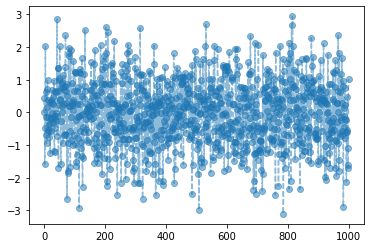
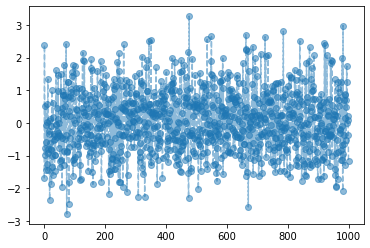
Built site for gh-pages

diff --git a/posts/2. 마코프체인/2023-03-30-5wk-1.html b/posts/2. 마코프체인/2023-03-30-5wk-1.html
@@ -9,7 +9,7 @@
 <meta name="author" content="최규빈">
 <meta name="dcterms.date" content="2023-03-30">
 
-<title>SP2023 - 5wk-1: 마코프체인 (1) – draft</title>
+<title>SP2023 - 5wk-1: 마코프체인 (1)</title>
 <style>
 code{white-space: pre-wrap;}
 span.smallcaps{font-variant: small-caps;}
@@ -166,7 +166,7 @@ code span.wa { color: #60a0b0; font-weight: bold; font-style: italic; } /* Warni
     </nav>
   <nav class="quarto-secondary-nav" data-bs-toggle="collapse" data-bs-target="#quarto-sidebar" aria-controls="quarto-sidebar" aria-expanded="false" aria-label="Toggle sidebar navigation" onclick="if (window.quartoToggleHeadroom) { window.quartoToggleHeadroom(); }">
     <div class="container-fluid d-flex justify-content-between">
-      <h1 class="quarto-secondary-nav-title">5wk-1: 마코프체인 (1) – draft</h1>
+      <h1 class="quarto-secondary-nav-title">5wk-1: 마코프체인 (1)</h1>
       <button type="button" class="quarto-btn-toggle btn" aria-label="Show secondary navigation">
         <i class="bi bi-chevron-right"></i>
       </button>
@@ -177,7 +177,7 @@ code span.wa { color: #60a0b0; font-weight: bold; font-style: italic; } /* Warni
 <header id="title-block-header" class="quarto-title-block default page-columns page-full">
   <div class="quarto-title-banner page-columns page-full">
     <div class="quarto-title column-body">
-      <h1 class="title d-none d-lg-block">5wk-1: 마코프체인 (1) – draft</h1>
+      <h1 class="title d-none d-lg-block">5wk-1: 마코프체인 (1)</h1>
                       </div>
   </div>
     
@@ -285,7 +285,7 @@ code span.wa { color: #60a0b0; font-weight: bold; font-style: italic; } /* Warni
       <ul id="quarto-sidebar-section-3" class="collapse list-unstyled sidebar-section depth2 show">  
           <li class="sidebar-item">
   <div class="sidebar-item-container"> 
-  <a href="../../posts/2. 마코프체인/2023-03-30-5wk-1.html" class="sidebar-item-text sidebar-link active">5wk-1: 마코프체인 (1) – draft</a>
+  <a href="../../posts/2. 마코프체인/2023-03-30-5wk-1.html" class="sidebar-item-text sidebar-link active">5wk-1: 마코프체인 (1)</a>
   </div>
 </li>
       </ul>
@@ -301,7 +301,8 @@ code span.wa { color: #60a0b0; font-weight: bold; font-style: italic; } /* Warni
     <h2 id="toc-title">On this page</h2>
    
   <ul>
-  <li><a href="#확률벡터" id="toc-확률벡터" class="nav-link active" data-scroll-target="#확률벡터">확률벡터</a></li>
+  <li><a href="#강의영상" id="toc-강의영상" class="nav-link active" data-scroll-target="#강의영상">강의영상</a></li>
+  <li><a href="#확률벡터" id="toc-확률벡터" class="nav-link" data-scroll-target="#확률벡터">확률벡터</a></li>
   <li><a href="#확률벡터의-평균-star" id="toc-확률벡터의-평균-star" class="nav-link" data-scroll-target="#확률벡터의-평균-star">확률벡터의 평균 (<span class="math inline">\(\star\)</span>)</a>
   <ul class="collapse">
   <li><a href="#확률변수의-평균" id="toc-확률변수의-평균" class="nav-link" data-scroll-target="#확률변수의-평균">확률변수의 평균</a></li>
@@ -324,6 +325,12 @@ code span.wa { color: #60a0b0; font-weight: bold; font-style: italic; } /* Warni
 
 
 
+<section id="강의영상" class="level1">
+<h1>강의영상</h1>
+<blockquote class="blockquote">
+<p>youtube: <a href="https://youtube.com/playlist?list=PLQqh36zP38-xlV_TS7zhmYyyYNKv8np4W" class="uri">https://youtube.com/playlist?list=PLQqh36zP38-xlV_TS7zhmYyyYNKv8np4W</a></p>
+</blockquote>
+</section>
 <section id="확률벡터" class="level1">
 <h1>확률벡터</h1>
 <p><code>-</code> 확률변수와 확률벡터</p>
@@ -696,8 +703,7 @@ code span.wa { color: #60a0b0; font-weight: bold; font-style: italic; } /* Warni
 </div>
 </div>
 <div class="cell" data-execution_count="16">
-<div class="sourceCode cell-code" id="cb18"><pre class="sourceCode numberSource python number-lines code-with-copy"><code class="sourceCode python"><span id="cb18-1"><a href="#cb18-1"></a><span class="co"># samples.mean(axis=0) # 각각 E(X1), E(X2), ... , E(X_{1000}) 을 근사한 것 </span></span>
-<span id="cb18-2"><a href="#cb18-2"></a>np.mean(samples[:,<span class="op">-</span><span class="dv">1</span>]) <span class="co"># E(X_{1000})을 근사한것</span></span></code><button title="Copy to Clipboard" class="code-copy-button"><i class="bi"></i></button></pre></div>
+<div class="sourceCode cell-code" id="cb18"><pre class="sourceCode numberSource python number-lines code-with-copy"><code class="sourceCode python"><span id="cb18-1"><a href="#cb18-1"></a>np.mean(samples[:,<span class="op">-</span><span class="dv">1</span>]) <span class="co"># E(X_{1000})을 근사한것</span></span></code><button title="Copy to Clipboard" class="code-copy-button"><i class="bi"></i></button></pre></div>
 <div class="cell-output cell-output-display" data-execution_count="16">
 <pre><code>0.7862120226702592</code></pre>
 </div>
@@ -817,18 +823,18 @@ code span.wa { color: #60a0b0; font-weight: bold; font-style: italic; } /* Warni
 </ul>
 <p>이때는 <span class="math inline">\(E(X_{1000})\)</span>을 <span class="math inline">\(\frac{1}{T}\sum_{t=1}^T X_t\)</span>와 같은 방식으로 근사할 수 있다.</p>
 <p><strong>시뮬1 – calculating time average of one-sample <span class="math inline">\((x_1,\dots,x_{1000})\)</span></strong></p>
-<div class="cell" data-execution_count="28">
+<div class="cell" data-execution_count="3">
 <div class="sourceCode cell-code" id="cb30"><pre class="sourceCode numberSource python number-lines code-with-copy"><code class="sourceCode python"><span id="cb30-1"><a href="#cb30-1"></a>one_sample <span class="op">=</span> np.random.binomial(<span class="dv">1</span>,<span class="fl">0.5</span>,<span class="dv">1000</span>)</span>
 <span id="cb30-2"><a href="#cb30-2"></a>np.mean(one_sample)</span></code><button title="Copy to Clipboard" class="code-copy-button"><i class="bi"></i></button></pre></div>
-<div class="cell-output cell-output-display" data-execution_count="28">
-<pre><code>0.5</code></pre>
+<div class="cell-output cell-output-display" data-execution_count="3">
+<pre><code>0.536</code></pre>
 </div>
 </div>
 <p><strong>시뮬2 – approximating ensemble average with 43052 samples</strong></p>
-<div class="cell" data-execution_count="29">
-<div class="sourceCode cell-code" id="cb32"><pre class="sourceCode numberSource python number-lines code-with-copy"><code class="sourceCode python"><span id="cb32-1"><a href="#cb32-1"></a>np.stack([np.random.binomial(<span class="dv">1</span>,<span class="fl">0.5</span>,<span class="dv">1000</span>) <span class="cf">for</span> i <span class="kw">in</span> <span class="bu">range</span>(<span class="dv">43052</span>)]).mean(axis<span class="op">=</span><span class="dv">0</span>)[<span class="op">-</span><span class="dv">1</span>]</span></code><button title="Copy to Clipboard" class="code-copy-button"><i class="bi"></i></button></pre></div>
-<div class="cell-output cell-output-display" data-execution_count="29">
-<pre><code>0.504552634023971</code></pre>
+<div class="cell" data-execution_count="6">
+<div class="sourceCode cell-code" id="cb32"><pre class="sourceCode numberSource python number-lines code-with-copy"><code class="sourceCode python"><span id="cb32-1"><a href="#cb32-1"></a>np.stack([np.random.binomial(<span class="dv">1</span>,<span class="fl">0.5</span>,<span class="dv">1000</span>) <span class="cf">for</span> i <span class="kw">in</span> <span class="bu">range</span>(<span class="dv">43052</span>)])[:,<span class="op">-</span><span class="dv">1</span>].mean()</span></code><button title="Copy to Clipboard" class="code-copy-button"><i class="bi"></i></button></pre></div>
+<div class="cell-output cell-output-display" data-execution_count="6">
+<pre><code>0.4999535445507758</code></pre>
 </div>
 </div>
 <p><code>-</code> 결론: 원래 time-average와 ensemble-average는 “전혀” 다른 개념이다. 그런데, 확률변수열이 iid일 경우는 time-average로 ensemble-average를 근사계산 할 수 있다.</p>
@@ -847,17 +853,17 @@ code span.wa { color: #60a0b0; font-weight: bold; font-style: italic; } /* Warni
 <li><span class="math inline">\(X_1=\epsilon_1\)</span></li>
 <li><span class="math inline">\(X_t=\frac{7}{8}X_{t-1} + \epsilon_t\)</span> for <span class="math inline">\(t=2,3,\dots,T\)</span></li>
 </ul>
-<div class="cell" data-execution_count="30">
+<div class="cell" data-execution_count="7">
 <div class="sourceCode cell-code" id="cb34"><pre class="sourceCode numberSource python number-lines code-with-copy"><code class="sourceCode python"><span id="cb34-1"><a href="#cb34-1"></a>eps <span class="op">=</span> np.random.randn(<span class="dv">1000</span>)</span>
 <span id="cb34-2"><a href="#cb34-2"></a>x <span class="op">=</span> np.zeros(<span class="dv">1000</span>)</span>
 <span id="cb34-3"><a href="#cb34-3"></a>x[<span class="dv">0</span>] <span class="op">=</span> eps[<span class="dv">0</span>]</span>
 <span id="cb34-4"><a href="#cb34-4"></a><span class="cf">for</span> t <span class="kw">in</span> <span class="bu">range</span>(<span class="dv">1</span>,<span class="dv">1000</span>):</span>
 <span id="cb34-5"><a href="#cb34-5"></a>    x[t] <span class="op">=</span> (<span class="dv">7</span><span class="op">/</span><span class="dv">8</span>)<span class="op">*</span>x[t<span class="op">-</span><span class="dv">1</span>] <span class="op">+</span>eps[t]</span></code><button title="Copy to Clipboard" class="code-copy-button"><i class="bi"></i></button></pre></div>
 </div>
-<div class="cell" data-execution_count="31">
+<div class="cell" data-execution_count="8">
 <div class="sourceCode cell-code" id="cb35"><pre class="sourceCode numberSource python number-lines code-with-copy"><code class="sourceCode python"><span id="cb35-1"><a href="#cb35-1"></a><span class="im">import</span> matplotlib.pyplot <span class="im">as</span> plt </span></code><button title="Copy to Clipboard" class="code-copy-button"><i class="bi"></i></button></pre></div>
 </div>
-<div class="cell" data-execution_count="32">
+<div class="cell" data-execution_count="9">
 <div class="sourceCode cell-code" id="cb36"><pre class="sourceCode numberSource python number-lines code-with-copy"><code class="sourceCode python"><span id="cb36-1"><a href="#cb36-1"></a>plt.plot(x,<span class="st">'--o'</span>,alpha<span class="op">=</span><span class="fl">0.5</span>)</span></code><button title="Copy to Clipboard" class="code-copy-button"><i class="bi"></i></button></pre></div>
 <div class="cell-output cell-output-display">
 <p><img src="2023-03-30-5wk-1_files/figure-html/cell-22-output-1.png" class="img-fluid"></p>
@@ -867,7 +873,7 @@ code span.wa { color: #60a0b0; font-weight: bold; font-style: italic; } /* Warni
 <p>(풀이)</p>
 <p>우선 독립인지 아닌지 체크해보자.</p>
 <p><strong><em>check: <span class="math inline">\(X_t\)</span>와 <span class="math inline">\(X_{t-1}\)</span>은 독립??</em></strong></p>
-<div class="cell" data-execution_count="33">
+<div class="cell" data-execution_count="10">
 <div class="sourceCode cell-code" id="cb37"><pre class="sourceCode numberSource python number-lines code-with-copy"><code class="sourceCode python"><span id="cb37-1"><a href="#cb37-1"></a>plt.plot(x[:<span class="op">-</span><span class="dv">1</span>],x[<span class="dv">1</span>:],<span class="st">'o'</span>,alpha<span class="op">=</span><span class="fl">0.2</span>)</span></code><button title="Copy to Clipboard" class="code-copy-button"><i class="bi"></i></button></pre></div>
 <div class="cell-output cell-output-display">
 <p><img src="2023-03-30-5wk-1_files/figure-html/cell-23-output-1.png" class="img-fluid"></p>
@@ -878,13 +884,13 @@ code span.wa { color: #60a0b0; font-weight: bold; font-style: italic; } /* Warni
 </ul>
 <hr>
 <p><em>참고로 독립이라면~</em></p>
-<div class="cell" data-execution_count="34">
+<div class="cell" data-execution_count="11">
 <div class="sourceCode cell-code" id="cb38"><pre class="sourceCode numberSource python number-lines code-with-copy"><code class="sourceCode python"><span id="cb38-1"><a href="#cb38-1"></a>plt.plot(eps,<span class="st">'--o'</span>,alpha<span class="op">=</span><span class="fl">0.5</span>)</span></code><button title="Copy to Clipboard" class="code-copy-button"><i class="bi"></i></button></pre></div>
 <div class="cell-output cell-output-display">
 <p><img src="2023-03-30-5wk-1_files/figure-html/cell-24-output-1.png" class="img-fluid"></p>
 </div>
 </div>
-<div class="cell" data-execution_count="35">
+<div class="cell" data-execution_count="12">
 <div class="sourceCode cell-code" id="cb39"><pre class="sourceCode numberSource python number-lines code-with-copy"><code class="sourceCode python"><span id="cb39-1"><a href="#cb39-1"></a>plt.plot(eps[<span class="dv">1</span>:],eps[:<span class="op">-</span><span class="dv">1</span>],<span class="st">'o'</span>,alpha<span class="op">=</span><span class="fl">0.2</span>)</span></code><button title="Copy to Clipboard" class="code-copy-button"><i class="bi"></i></button></pre></div>
 <div class="cell-output cell-output-display">
 <p><img src="2023-03-30-5wk-1_files/figure-html/cell-25-output-1.png" class="img-fluid"></p>
@@ -892,7 +898,7 @@ code span.wa { color: #60a0b0; font-weight: bold; font-style: italic; } /* Warni
 </div>
 <hr>
 <p><strong>시뮬1 – calculating time average of one-sample <span class="math inline">\((x_1,\dots,x_{T})\)</span></strong></p>
-<div class="cell" data-execution_count="42">
+<div class="cell" data-execution_count="13">
 <div class="sourceCode cell-code" id="cb40"><pre class="sourceCode numberSource python number-lines code-with-copy"><code class="sourceCode python"><span id="cb40-1"><a href="#cb40-1"></a><span class="kw">def</span> gen(T<span class="op">=</span><span class="dv">1000</span>):</span>
 <span id="cb40-2"><a href="#cb40-2"></a>    eps <span class="op">=</span> np.random.randn(T)</span>
 <span id="cb40-3"><a href="#cb40-3"></a>    x <span class="op">=</span> np.zeros(T)</span>
@@ -901,21 +907,21 @@ code span.wa { color: #60a0b0; font-weight: bold; font-style: italic; } /* Warni
 <span id="cb40-6"><a href="#cb40-6"></a>        x[t] <span class="op">=</span> (<span class="dv">7</span><span class="op">/</span><span class="dv">8</span>)<span class="op">*</span>x[t<span class="op">-</span><span class="dv">1</span>] <span class="op">+</span>eps[t]</span>
 <span id="cb40-7"><a href="#cb40-7"></a>    <span class="cf">return</span> x</span></code><button title="Copy to Clipboard" class="code-copy-button"><i class="bi"></i></button></pre></div>
 </div>
-<div class="cell" data-execution_count="43">
+<div class="cell" data-execution_count="14">
 <div class="sourceCode cell-code" id="cb41"><pre class="sourceCode numberSource python number-lines code-with-copy"><code class="sourceCode python"><span id="cb41-1"><a href="#cb41-1"></a>one_sample <span class="op">=</span> gen()</span>
 <span id="cb41-2"><a href="#cb41-2"></a>np.mean(one_sample)</span></code><button title="Copy to Clipboard" class="code-copy-button"><i class="bi"></i></button></pre></div>
-<div class="cell-output cell-output-display" data-execution_count="43">
-<pre><code>0.023090107003126605</code></pre>
+<div class="cell-output cell-output-display" data-execution_count="14">
+<pre><code>-0.04427929741501683</code></pre>
 </div>
 </div>
 <p><strong>시뮬2 – approximating ensemble average with 43052 samples</strong></p>
-<div class="cell" data-execution_count="44">
+<div class="cell" data-execution_count="15">
 <div class="sourceCode cell-code" id="cb43"><pre class="sourceCode numberSource python number-lines code-with-copy"><code class="sourceCode python"><span id="cb43-1"><a href="#cb43-1"></a>samples <span class="op">=</span> np.stack([gen() <span class="cf">for</span> ω <span class="kw">in</span> <span class="bu">range</span>(<span class="dv">43052</span>)])</span></code><button title="Copy to Clipboard" class="code-copy-button"><i class="bi"></i></button></pre></div>
 </div>
-<div class="cell" data-execution_count="45">
+<div class="cell" data-execution_count="16">
 <div class="sourceCode cell-code" id="cb44"><pre class="sourceCode numberSource python number-lines code-with-copy"><code class="sourceCode python"><span id="cb44-1"><a href="#cb44-1"></a>np.mean(samples[:,<span class="op">-</span><span class="dv">1</span>])</span></code><button title="Copy to Clipboard" class="code-copy-button"><i class="bi"></i></button></pre></div>
-<div class="cell-output cell-output-display" data-execution_count="45">
-<pre><code>-0.011328853565438847</code></pre>
+<div class="cell-output cell-output-display" data-execution_count="16">
+<pre><code>-0.001607068412044872</code></pre>
 </div>
 </div>
 <p>근사 되는 것 같은데..?</p>
@@ -947,7 +953,7 @@ code span.wa { color: #60a0b0; font-weight: bold; font-style: italic; } /* Warni
 </blockquote>
 <hr>
 <p><strong><em>독립인듯 독립아닌 독립같은 확률과정</em></strong></p>
-<div class="cell" data-execution_count="46">
+<div class="cell" data-execution_count="17">
 <div class="sourceCode cell-code" id="cb46"><pre class="sourceCode numberSource python number-lines code-with-copy"><code class="sourceCode python"><span id="cb46-1"><a href="#cb46-1"></a>fig, ax <span class="op">=</span> plt.subplots(<span class="dv">3</span>,<span class="dv">3</span>,figsize<span class="op">=</span>(<span class="dv">10</span>,<span class="dv">10</span>))</span>
 <span id="cb46-2"><a href="#cb46-2"></a>ax[<span class="dv">0</span>][<span class="dv">0</span>].plot(x[:<span class="op">-</span><span class="dv">1</span>],x[<span class="dv">1</span>:],<span class="st">'o'</span>,alpha<span class="op">=</span><span class="fl">0.1</span>)</span>
 <span id="cb46-3"><a href="#cb46-3"></a>ax[<span class="dv">0</span>][<span class="dv">1</span>].plot(x[:<span class="op">-</span><span class="dv">2</span>],x[<span class="dv">2</span>:],<span class="st">'o'</span>,alpha<span class="op">=</span><span class="fl">0.1</span>)</span>

diff --git a/index.html b/index.html
@@ -239,7 +239,7 @@ ul.task-list li input[type="checkbox"] {
       <ul id="quarto-sidebar-section-3" class="collapse list-unstyled sidebar-section depth2 ">  
           <li class="sidebar-item">
   <div class="sidebar-item-container"> 
-  <a href="./posts/2. 마코프체인/2023-03-30-5wk-1.html" class="sidebar-item-text sidebar-link">5wk-1: 마코프체인 (1) – draft</a>
+  <a href="./posts/2. 마코프체인/2023-03-30-5wk-1.html" class="sidebar-item-text sidebar-link">5wk-1: 마코프체인 (1)</a>
   </div>
 </li>
       </ul>
@@ -298,18 +298,18 @@ Author
 </tr>
 </thead>
 <tbody class="list">
-<tr data-index="0" data-listing-date-sort="1680102000000" data-listing-file-modified-sort="1680216678238" data-listing-reading-time-sort="4.01" data-listing-title-sort="5wk-1: 마코프체인 (1) -- draft" data-listing-filename-sort="2023-03-30-5wk-1.ipynb">
+<tr data-index="0" data-listing-date-sort="1680102000000" data-listing-file-modified-sort="1680528653423" data-listing-reading-time-sort="4.03" data-listing-title-sort="5wk-1: 마코프체인 (1)" data-listing-filename-sort="2023-03-30-5wk-1.ipynb">
 <td class="listing-date">
 Mar 30, 2023
 </td>
 <td class="listing-title">
-<a href="./posts/2. 마코프체인/2023-03-30-5wk-1.html" class="title">5wk-1: 마코프체인 (1) – draft</a>
+<a href="./posts/2. 마코프체인/2023-03-30-5wk-1.html" class="title">5wk-1: 마코프체인 (1)</a>
 </td>
 <td class="listing-author">
 최규빈
 </td>
 </tr>
-<tr data-index="1" data-listing-date-sort="1680015600000" data-listing-file-modified-sort="1680493897820" data-listing-reading-time-sort="1.325" data-listing-title-sort="HW1: 측도론" data-listing-filename-sort="2023-03-29-hw1.ipynb">
+<tr data-index="1" data-listing-date-sort="1680015600000" data-listing-file-modified-sort="1680493955440" data-listing-reading-time-sort="1.325" data-listing-title-sort="HW1: 측도론" data-listing-filename-sort="2023-03-29-hw1.ipynb">
 <td class="listing-date">
 Mar 29, 2023
 </td>

diff --git a/posts/1. 측도론/2023-03-09-2wk-1.html b/posts/1. 측도론/2023-03-09-2wk-1.html
@@ -222,7 +222,7 @@ ul.task-list li input[type="checkbox"] {
       <ul id="quarto-sidebar-section-3" class="collapse list-unstyled sidebar-section depth2 ">  
           <li class="sidebar-item">
   <div class="sidebar-item-container"> 
-  <a href="../../posts/2. 마코프체인/2023-03-30-5wk-1.html" class="sidebar-item-text sidebar-link">5wk-1: 마코프체인 (1) – draft</a>
+  <a href="../../posts/2. 마코프체인/2023-03-30-5wk-1.html" class="sidebar-item-text sidebar-link">5wk-1: 마코프체인 (1)</a>
   </div>
 </li>
       </ul>

diff --git a/posts/1. 측도론/2023-03-14-2wk-2.html b/posts/1. 측도론/2023-03-14-2wk-2.html
@@ -222,7 +222,7 @@ ul.task-list li input[type="checkbox"] {
       <ul id="quarto-sidebar-section-3" class="collapse list-unstyled sidebar-section depth2 ">  
           <li class="sidebar-item">
   <div class="sidebar-item-container"> 
-  <a href="../../posts/2. 마코프체인/2023-03-30-5wk-1.html" class="sidebar-item-text sidebar-link">5wk-1: 마코프체인 (1) – draft</a>
+  <a href="../../posts/2. 마코프체인/2023-03-30-5wk-1.html" class="sidebar-item-text sidebar-link">5wk-1: 마코프체인 (1)</a>
   </div>
 </li>
       </ul>

diff --git a/posts/1. 측도론/2023-03-16-3wk-1.html b/posts/1. 측도론/2023-03-16-3wk-1.html
@@ -222,7 +222,7 @@ ul.task-list li input[type="checkbox"] {
       <ul id="quarto-sidebar-section-3" class="collapse list-unstyled sidebar-section depth2 ">  
           <li class="sidebar-item">
   <div class="sidebar-item-container"> 
-  <a href="../../posts/2. 마코프체인/2023-03-30-5wk-1.html" class="sidebar-item-text sidebar-link">5wk-1: 마코프체인 (1) – draft</a>
+  <a href="../../posts/2. 마코프체인/2023-03-30-5wk-1.html" class="sidebar-item-text sidebar-link">5wk-1: 마코프체인 (1)</a>
   </div>
 </li>
       </ul>

diff --git a/posts/1. 측도론/2023-03-21-3wk-2.html b/posts/1. 측도론/2023-03-21-3wk-2.html
@@ -222,7 +222,7 @@ ul.task-list li input[type="checkbox"] {
       <ul id="quarto-sidebar-section-3" class="collapse list-unstyled sidebar-section depth2 ">  
           <li class="sidebar-item">
   <div class="sidebar-item-container"> 
-  <a href="../../posts/2. 마코프체인/2023-03-30-5wk-1.html" class="sidebar-item-text sidebar-link">5wk-1: 마코프체인 (1) – draft</a>
+  <a href="../../posts/2. 마코프체인/2023-03-30-5wk-1.html" class="sidebar-item-text sidebar-link">5wk-1: 마코프체인 (1)</a>
   </div>
 </li>
       </ul>

diff --git a/posts/1. 측도론/2023-03-23-4wk-1.html b/posts/1. 측도론/2023-03-23-4wk-1.html
@@ -222,7 +222,7 @@ ul.task-list li input[type="checkbox"] {
       <ul id="quarto-sidebar-section-3" class="collapse list-unstyled sidebar-section depth2 ">  
           <li class="sidebar-item">
   <div class="sidebar-item-container"> 
-  <a href="../../posts/2. 마코프체인/2023-03-30-5wk-1.html" class="sidebar-item-text sidebar-link">5wk-1: 마코프체인 (1) – draft</a>
+  <a href="../../posts/2. 마코프체인/2023-03-30-5wk-1.html" class="sidebar-item-text sidebar-link">5wk-1: 마코프체인 (1)</a>
   </div>
 </li>
       </ul>

diff --git a/posts/1. 측도론/2023-03-28-4wk-2.html b/posts/1. 측도론/2023-03-28-4wk-2.html
@@ -222,7 +222,7 @@ ul.task-list li input[type="checkbox"] {
       <ul id="quarto-sidebar-section-3" class="collapse list-unstyled sidebar-section depth2 ">  
           <li class="sidebar-item">
   <div class="sidebar-item-container"> 
-  <a href="../../posts/2. 마코프체인/2023-03-30-5wk-1.html" class="sidebar-item-text sidebar-link">5wk-1: 마코프체인 (1) – draft</a>
+  <a href="../../posts/2. 마코프체인/2023-03-30-5wk-1.html" class="sidebar-item-text sidebar-link">5wk-1: 마코프체인 (1)</a>
   </div>
 </li>
       </ul>

diff --git a/posts/1. 측도론/2023-03-29-hw1.html b/posts/1. 측도론/2023-03-29-hw1.html
@@ -222,7 +222,7 @@ ul.task-list li input[type="checkbox"] {
       <ul id="quarto-sidebar-section-3" class="collapse list-unstyled sidebar-section depth2 ">  
           <li class="sidebar-item">
   <div class="sidebar-item-container"> 
-  <a href="../../posts/2. 마코프체인/2023-03-30-5wk-1.html" class="sidebar-item-text sidebar-link">5wk-1: 마코프체인 (1) – draft</a>
+  <a href="../../posts/2. 마코프체인/2023-03-30-5wk-1.html" class="sidebar-item-text sidebar-link">5wk-1: 마코프체인 (1)</a>
   </div>
 </li>
       </ul>

diff --git a/posts/2023-03-07-1wk-2.html b/posts/2023-03-07-1wk-2.html
@@ -222,7 +222,7 @@ ul.task-list li input[type="checkbox"] {
       <ul id="quarto-sidebar-section-3" class="collapse list-unstyled sidebar-section depth2 ">  
           <li class="sidebar-item">
   <div class="sidebar-item-container"> 
-  <a href="../posts/2. 마코프체인/2023-03-30-5wk-1.html" class="sidebar-item-text sidebar-link">5wk-1: 마코프체인 (1) – draft</a>
+  <a href="../posts/2. 마코프체인/2023-03-30-5wk-1.html" class="sidebar-item-text sidebar-link">5wk-1: 마코프체인 (1)</a>
   </div>
 </li>
       </ul>

diff --git a/about.html b/about.html
@@ -190,7 +190,7 @@ ul.task-list li input[type="checkbox"] {
       <ul id="quarto-sidebar-section-3" class="collapse list-unstyled sidebar-section depth2 ">  
           <li class="sidebar-item">
   <div class="sidebar-item-container"> 
-  <a href="./posts/2. 마코프체인/2023-03-30-5wk-1.html" class="sidebar-item-text sidebar-link">5wk-1: 마코프체인 (1) – draft</a>
+  <a href="./posts/2. 마코프체인/2023-03-30-5wk-1.html" class="sidebar-item-text sidebar-link">5wk-1: 마코프체인 (1)</a>
   </div>
 </li>
       </ul>
